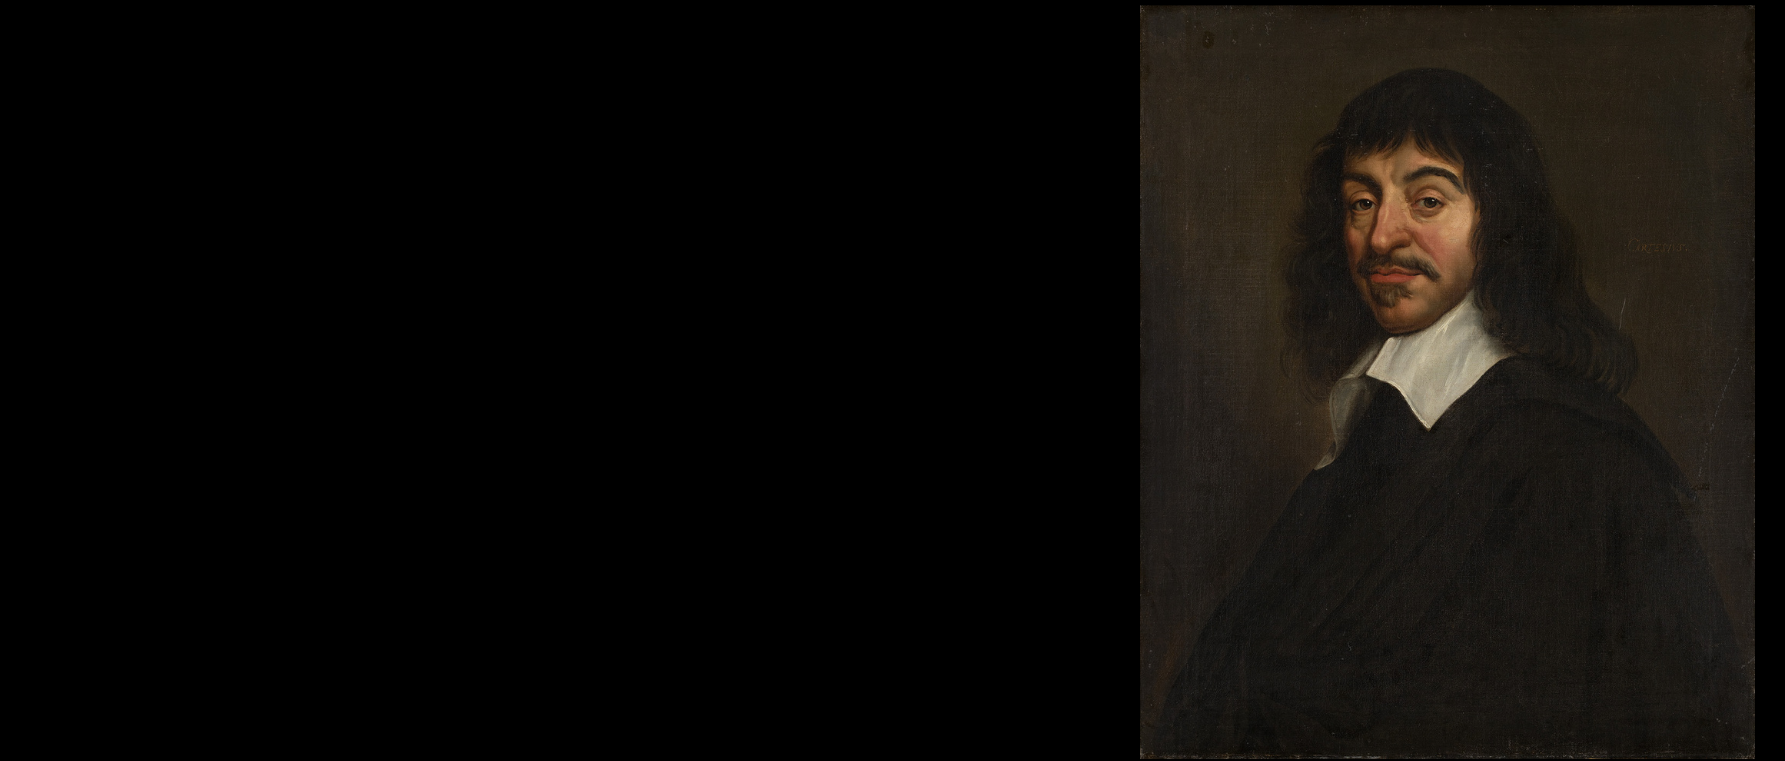
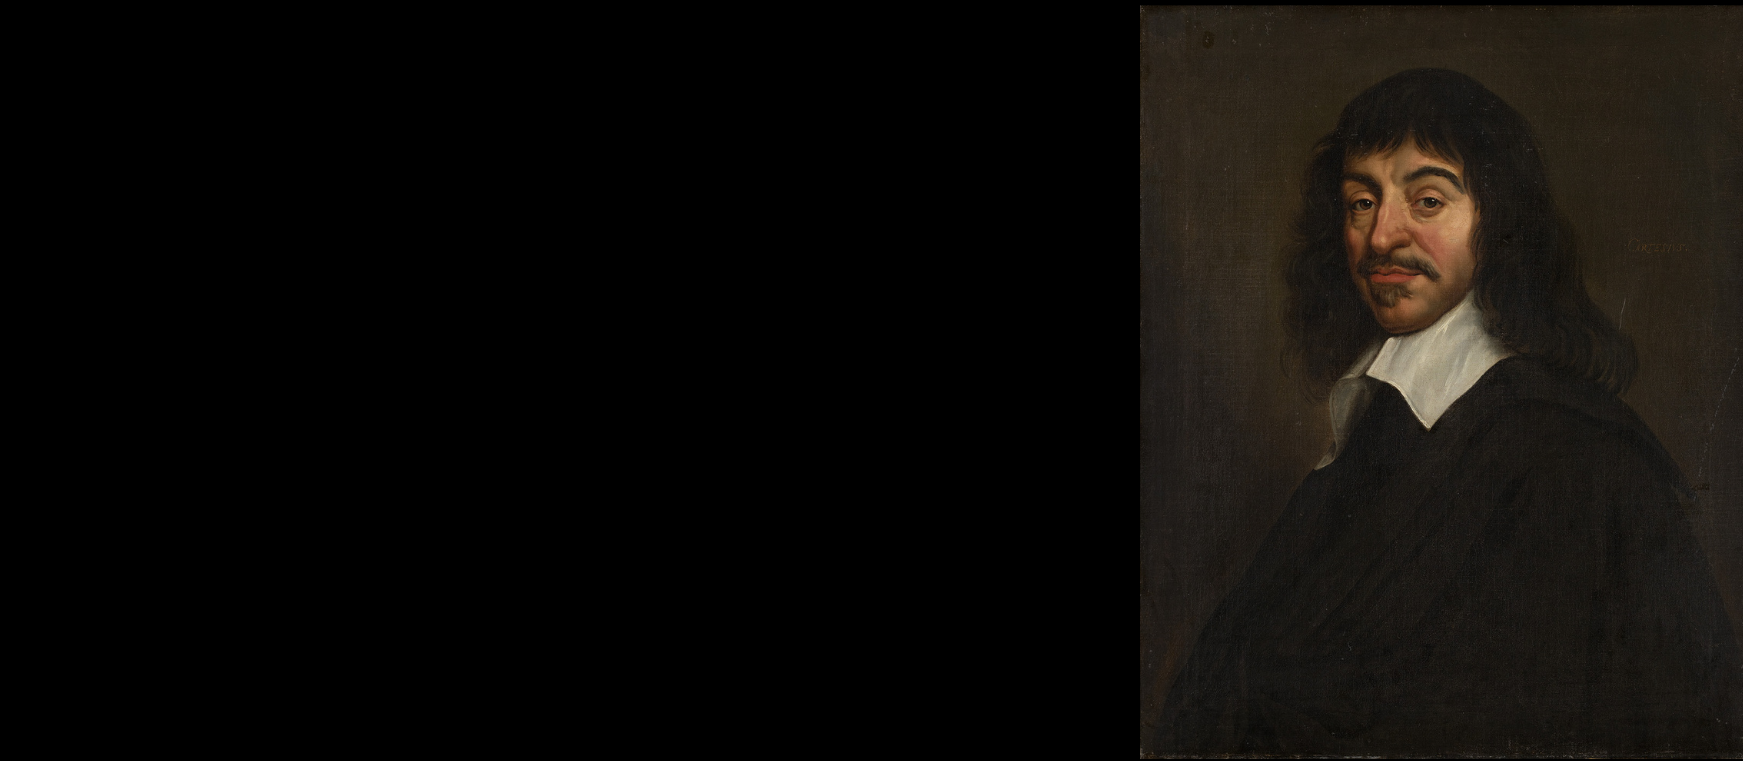
Atualiz. Fotos

Changed region(s): [[0.9604, 0.0, 1.0, 0.9974], [0.6196, 0.0, 0.6816, 0.9974], [0.7126, 0.1813, 0.8675, 0.6347]]

diff --git a/style.css b/style.css
@@ -8,10 +8,12 @@
     background-attachment: fixed;
     background-position: left center;
     padding: 100px;*/
-
+body{
+    background-color: rgb(255, 247, 236);
+}
 main{
     margin: auto;
-    width: 100vw;
+    width: 90vw;
 }
 header{
     background-color: black;
@@ -19,14 +21,18 @@ header{
     text-align: center;
     padding: 30px;
 }
+section{
+    margin: 10px;
+}
 section p{
-    color: aliceblue;
+    color: rgb(255, 255, 255);
     width: 400px;
     padding: 90px 5px;
 }
 
 article h2{
-    padding-top: 40px;
+    padding: 40px 0px;
+    font-family:Verdana, Geneva, Tahoma, sans-serif;
 }
 article p{
     line-height: 40px;
@@ -37,47 +43,66 @@ article p{
 
 
 
-
 section#Rene{
     background-image: url('imagens_f/Rene\ \(2\).png');
     background-size: cover;
     background-repeat: no-repeat;
     background-attachment: fixed;
-    background-position: center center;
+    background-position: right center;
     padding: 90px 5px;
 }
 section#Rene p{
-    color: white;
+    background-color: rgba(58, 58, 58, 0.171);
+    width: 250px;
 }
 section#Socrates{
     background-image: url('imagens_f/Socrates.png');
     background-size: cover;
     background-repeat: no-repeat;
     background-attachment: fixed;
-    background-position: center center;
+    background-position: right center;
     padding: 90px 5px;
 }
+
+section#Socrates p{
+    background-color: rgba(58, 58, 58, 0.288);
+    width: 250px;
+}
+
 section#Platao{
-    background-image: url('imagens_f/Platao.png');
+    background-image: url('imagens_f/Platao\ \(1\)\ \(1\).png');
     background-size: cover;
     background-repeat: no-repeat;
     background-attachment: fixed;
-    background-position: center center;
+    background-position: right center;
     padding: 90px 5px;
 }
+section#Platao p{
+    background-color: rgba(58, 58, 58, 0.288);
+    width: 250px;
+}
+
 section#Aristoteles{
-    background-image: url('imagens_f/Aristoteles\ \(1\).png');
+    background-image: url('imagens_f/Aristoteles\ \(1\)\ \(1\)\ \(1\).png');
     background-size: cover;
     background-repeat: no-repeat;
     background-attachment: fixed;
-    background-position: center center;
+    background-position: right center;
     padding: 90px 5px;
+}
+section#Aristoteles p{
+    background-color: rgba(58, 58, 58, 0.288);
+    width: 250px;
 }
 section#Bruno_Luz{
-    background-image: url('imagens_f/Bruno_Luz1\ \(1\)\ \(1\)\ \(1\).png');
+    background-image: url('imagens_f/Bruno_Luz1\ \(2\)\ \(1\).png');
     background-size: cover;
     background-repeat: no-repeat;
     background-attachment: fixed;
-    background-position: center center;
+    background-position: right center;
     padding: 90px 5px;
+}
+section#Bruno_Luz p{
+    background-color: rgba(0, 0, 0, 0.055);
+    width: 250px;
 }

diff --git a/index.html b/index.html
@@ -9,7 +9,7 @@
 </head>
 <body>
     <header>
-        <h1>5 maiores filósofos da história</h1>
+        <h1>5 Maiores Filósofos</h1>
     </header>
     <main>
         <article id="Rene">
@@ -47,13 +47,13 @@
         </section>
         <article id="Bruno">
             <h2>Bruno Luz</h2>
-            <p>Estando vivo ate a atualidade, o filoso Bruno bastante cohecido como o mestre do xadres, e diversas outras modalidades do conhecimento, e considerado facilmente o maior fisoloso de todos os tempos. <br>
-            Possuindo diversos artigos, e conhecimentos sobre qualquer aria</p>
+            <p>Estando vivo atualmente, filoso Bruno bastante cohecido como o <strong><i>Mestre do Xadres</i></strong>, possui diversos conhecimentos de diversas modalidades.<br> 
+            Possuindo todos os tipos de formação é considerado facilmente o maior fisoloso de todos os tempos. <br>
+            Possuindo diversos artigos, e conhecimentos sobre qualquer área</p>
         </article>
         <section id="Bruno_Luz">
             <p>"A filosofia tem a obrigacao de ser estranha".</p>
         </section>
-        <p>Lorem ipsum dolor sit amet consectetur adipisicing elit. Cupiditate, nemo enim voluptatibus quibusdam similique quis blanditiis facilis voluptates neque consectetur pariatur sint sit suscipit, corporis et, aut aliquam maxime nihil?</p>
     </main>
 
 </body>
